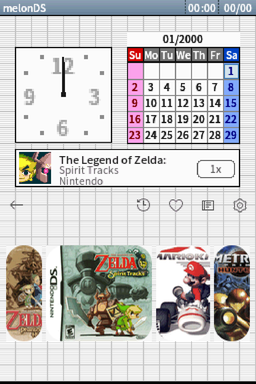
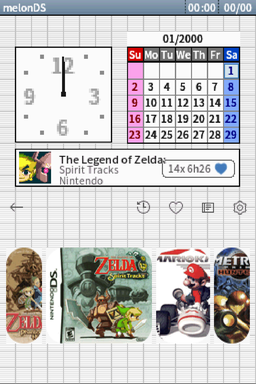
README: show this fork's own screenshots
The images at the top came with the upstream tree and showed someone else's
homebrew library rather than anything this fork adds. They are now the DS BIOS
theme in both layouts, with a favourite and real play time on the game box, and
the guides shot is a page of an actual walkthrough instead of the ascii banner
at the top of the file.

diff --git a/README.md b/README.md
@@ -11,10 +11,8 @@
 
 A feature fork of [Pico Launcher](https://github.com/LNH-team/pico-launcher) by the LNH team, adding library features inspired by modern consoles — favorites, play stats, recently played, and more — while staying fully compatible with stock SD cards: it is a drop-in `_picoboot.nds` replacement, and all upstream features remain intact.
 
-![Horizontal display mode with custom theme](docs/images/HorizontalCustom.png)
-![Banner list display mode](docs/images/List.png)
-![DS BIOS theme](docs/images/DsBios.png)
-![Coverflow display mode](docs/images/Coverflow.png)
+![The DS BIOS theme: clock, calendar and status bar, with play time and a favourite on the game box](docs/images/DsBios.png)
+![The same theme in a grid layout, where the cover art takes the clock's place](docs/images/DsBiosGrid.png)
 
 ## Download
 
